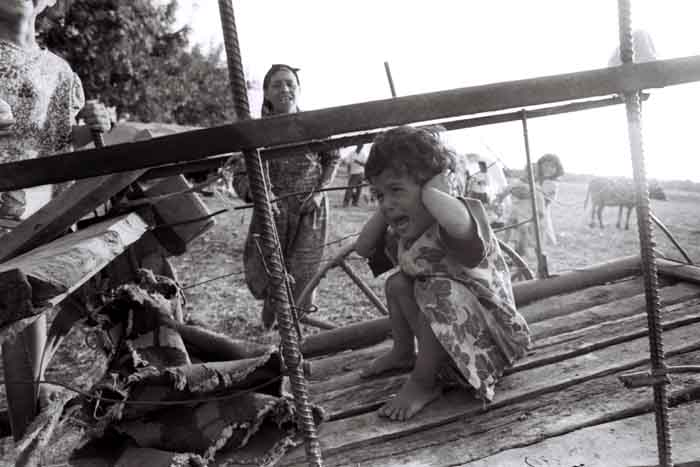
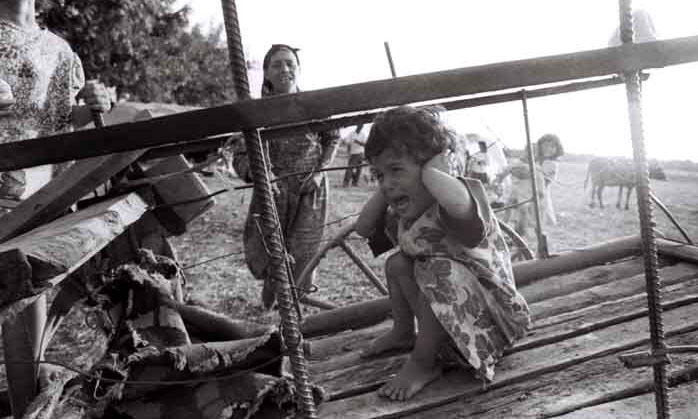
Sekil olcusu deyisdi

diff --git a/index.html b/index.html
@@ -8,7 +8,7 @@
     <title>Khojaly Tragedy</title>
 </head>
 <body>
-        <nav class="navbar bg-dark navbar-dark navbar-expand-sm fixed-top">
+        <nav class="navbar bg-dark navbar-dark navbar-expand-sm fixed-top mb-5">
             <div class="container-fluid">
                 <a href="#" class="navbar-brand"><img src="qerenfil1.png" width="100px"></a>
                 <button class="navbar-toggler" type="button" data-bs-toggle="collapse" data-bs-target="#nav">
@@ -52,7 +52,7 @@
               <span class="visually-hidden">Next</span>
             </button>
           </div> -->
-          <div id="carouselExample" class="carousel slide">
+          <div id="carouselExample" class="carousel slide mt-5">
   <div class="carousel-inner">
     <div class="carousel-item active">
       <img src="photo1.jpg" class="d-block w-100">
@@ -77,7 +77,7 @@
 
           <div class="yazi">
             <p class="m-2 my-3" id="info">
-              The Khojaly massacre was the mass killing of Azerbaijani civilians by Armenian forces and the 366th CIS regiment in the town of Khojaly on 26 February 1992. The event became the largest single massacre throughout the entire Nagorno-Karabakh conflict.
+              The Khojaly massacre was the mass killing of Azerbaijani cibvilians by Armenian forces and the 366th CIS regiment in the town of Khojaly on 26 February 1992. The event became the largest single massacre throughout the entire Nagorno-Karabakh conflict.
 
               Khojaly was an Azerbaijani-populated town of some 6,300 people in the Nagorno-Karabakh Autonomous Oblast of Azerbaijan SSR, also housing the region's only airport in 1992. The town was subject to daily shelling and total blockade by Armenian forces during the First Nagorno-Karabakh War. Without supply of electricity, gas, or water, it was defended by the local forces consisting of about 160 lightly armed men. The Armenian forces, along with some troops of the 366th CIS regiment, launched an offensive in early 1992, forcing almost the entire Azerbaijani population of the enclave to flee, and committing "unconscionable acts of violence against civilians" as they fled.
               
